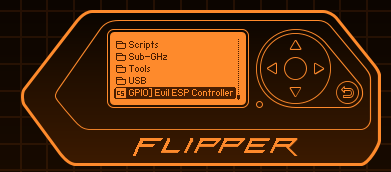
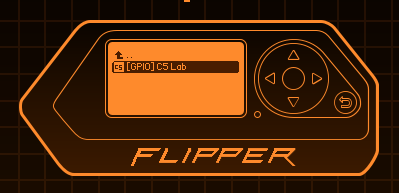
App rename

diff --git a/FLIPPER/Evil-ESP/evil_esp_scenes.c b/FLIPPER/Evil-ESP/evil_esp_scenes.c
@@ -160,8 +160,8 @@ void evil_esp_scene_on_enter_start(void* context) {
     EvilEspApp* app = context;
 
     // Show connection message popup
-    popup_set_header(app->popup, "Lab C5 Board", 64, 8, AlignCenter, AlignTop);
-    popup_set_text(app->popup, "Now connect the\nLab C5 Board \n(click Back when ready)", 64, 35, AlignCenter, AlignCenter);
+    popup_set_header(app->popup, "Connect C5 Lab", 64, 8, AlignCenter, AlignTop);
+    popup_set_text(app->popup, "Now connect the board\nand click 'Back'\nafter a few secs", 64, 35, AlignCenter, AlignCenter);
     popup_set_icon(app->popup, 0, 0, NULL); // No icon
     popup_set_callback(app->popup, NULL);
     popup_set_context(app->popup, app);
@@ -236,7 +236,7 @@ void evil_esp_scene_on_enter_main_menu(void* context) {
     }
 
     submenu_reset(app->submenu);
-    submenu_set_header(app->submenu, "Evil ESP 1.2");
+    submenu_set_header(app->submenu, "C5 Lab 1.3");
 
     submenu_add_item(app->submenu, "Scanner", EvilEspMainMenuIndexScanner, evil_esp_submenu_callback_main_menu, app);
     submenu_add_item(app->submenu, "Sniffer", EvilEspMainMenuIndexSnifferMenu, evil_esp_submenu_callback_main_menu, app);
